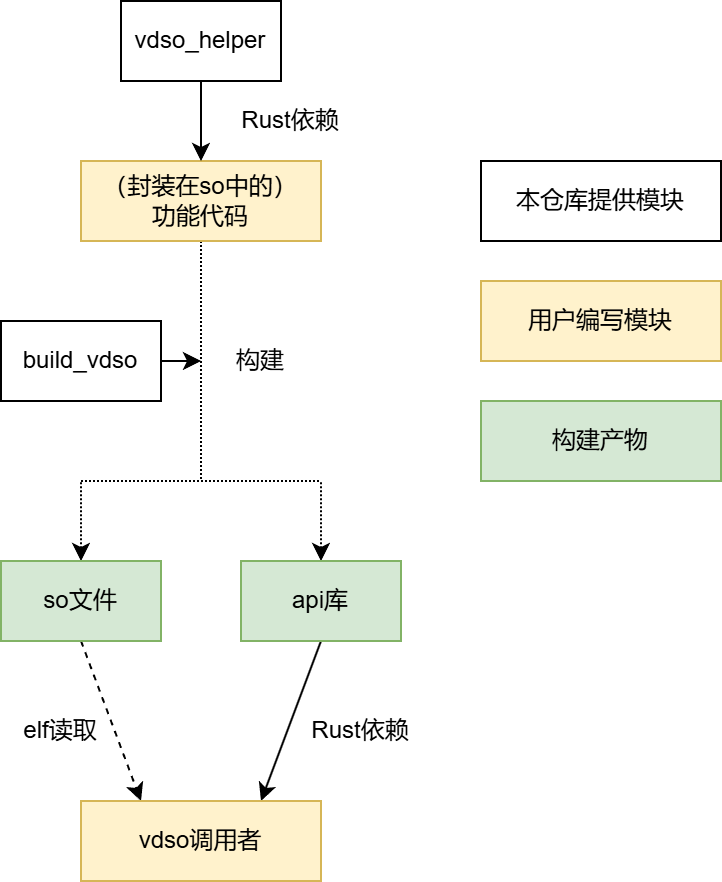
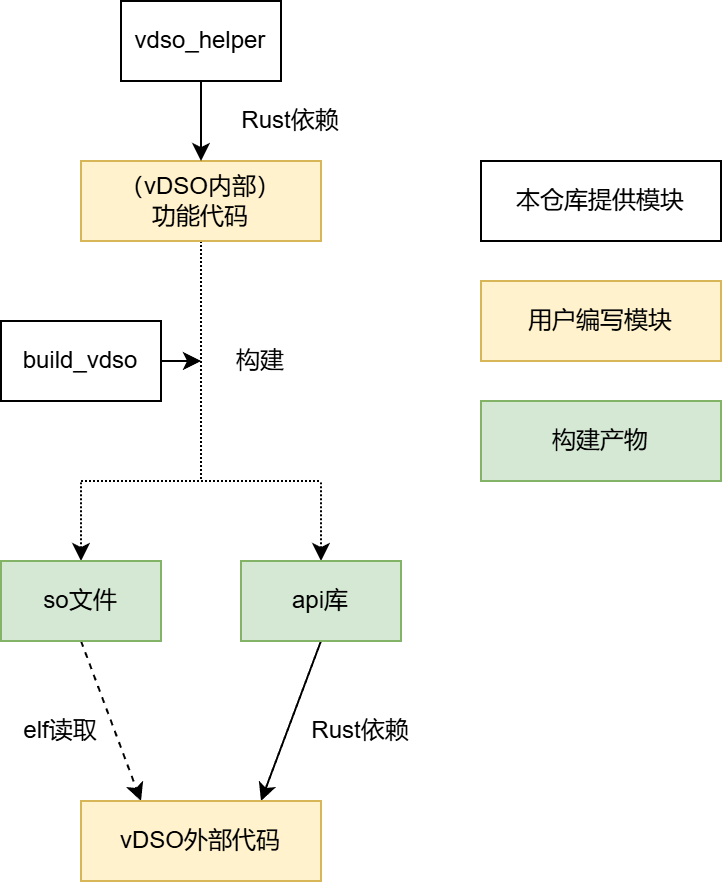
文档补全

Changed region(s): [[0.1524, 0.9184, 0.3961, 0.9796], [0.1524, 0.1837, 0.3961, 0.2449]]

diff --git a/vdso_helper/src/vvar_data.rs b/vdso_helper/src/vvar_data.rs
@@ -1,10 +1,28 @@
+//! 声明共享数据结构。
+//!
+//! 在vDSO库中，需要区分共享数据和私有数据。
+//!
+//! 共享数据存放在vVAR数据区中，由[`vvar_data!`](`crate::vvar_data!`)定义。
+//! vDSO库通过[`get_vvar_data!`](`crate::get_vvar_data!`)访问共享数据。
+//! 所有进程和内核访问同一份共享数据，在一个地址空间中对共享数据的修改会被其它地址空间看到。
+//!
+//! 私有数据则存放在vDSO库自身的数据段中，通过一般的静态变量声明方式定义，
+//! 仅供vDSO库内部使用。
+//! 不同地址空间使用vDSO库时，私有数据写时复制，互不影响。
+//!
+//! ## 包含
+//!
+//! - [`vvar_data!`](`crate::vvar_data!`)
+//! - [`get_vvar_data!`](`crate::get_vvar_data!`)
+
 /// 声明共享数据结构。
 ///
 /// 使用方式：
 ///
 /// - 类似于struct的定义，在大括号中声明每一项的名称和类型。
+///     - 每一项的类型都需要实现`Default`和`Sync` trait。
 /// - 需要在crate的根模块下使用该宏。
-/// - 在项目各处通过`get_vvar_data`宏获取共享数据结构的引用。
+/// - 在项目各处通过[`get_vvar_data!`](`crate::get_vvar_data!`)获取共享数据结构的引用。
 #[macro_export]
 macro_rules! vvar_data {
     ($($i:ident: $t:ty),* $(,)?) => {
@@ -23,14 +41,14 @@ macro_rules! vvar_data {
 ///
 /// 参数：
 ///
-/// - $1: 共享数据结构的字段名（在vvar_data宏中定义）。
-/// - $2: 映射代码和数据段过程中的页面大小（usize类型）（可不填写，则默认为4K）。
+/// - $1: 共享数据结构的字段名（在[`vvar_data!`](`crate::vvar_data!`)中定义）。
+/// - $2: 映射代码和数据段过程中的页面大小（`usize`类型）（可不填写，则默认为4K）。
 ///
-/// 返回值：&'static T类型，代表对相应结构的引用
+/// 返回值：`&'static T`类型，代表对相应结构的引用
 ///
 /// SAFETY：
 ///
-/// 需要在生成的so文件中检查，函数get_code_base的偏移量要小于一页。
+/// 需要在生成的so文件中检查，函数[`get_code_base`]的偏移量要小于一页。
 ///
 /// 否则，该宏获取到的引用地址会不正确。
 #[macro_export]

diff --git a/build_vdso/src/build_config.rs b/build_vdso/src/build_config.rs
@@ -1,14 +1,19 @@
+//! 提供[`BuildConfig`]结构体，用于配置vDSO库的构建参数。
+
+/// 用于传入[`super::build_vdso`]函数中，配置vDSO库的构建参数。
+///
+/// 使用时，建议调用[`BuildConfig::new`]函数创建实例，并在创建后手动修改需要修改的字段。
 pub struct BuildConfig {
     /// 目标架构，有效值为"x86_64"、"aarch64"、"riscv64"
     pub arch: String,
-    /// vdso源代码所在目录
+    /// vDSO源代码所在目录
     pub src_dir: String,
-    /// vdso包名称
+    /// vDSO包名称
     pub package_name: String,
     /// 编译输出目录，会输出链接脚本和最终的.so文件
     /// 若在build.rs中调用，则应传入环境变量OUT_DIR的值
     pub out_dir: String,
-    /// 生成的vdso库的soname，默认为"lib" + package_name
+    /// 生成的vDSO库的soname，默认为"lib" + package_name
     pub so_name: String,
     /// 编译模式，"debug"或"release"
     pub mode: String,
@@ -17,7 +22,7 @@ pub struct BuildConfig {
     /// 生成的api库的名称，默认为"lib" + package_name
     /// 该库会被拷贝到输出目录，并可被调用者依赖
     pub api_lib_name: String,
-    /// 编译vdso使用的工具链版本
+    /// 编译vDSO使用的工具链版本
     /// 默认为"nightly"，可指定具体版本号，如"nightly-2025-09-12"
     pub toolchain: String,
 }

diff --git a/build_vdso/src/lib.rs b/build_vdso/src/lib.rs
@@ -1,3 +1,12 @@
+//! 本模块用于构建vDSO库。
+//!
+//! 在vDSO外部代码的build.rs中调用[`build_vdso`]函数，传入[`BuildConfig`]配置结构体，即可完成vDSO库的构建。
+//!
+//! vDSO库的构建产物包括so文件和API库，vDSO外部代码在正确加载so文件与vVAR数据区后，将so文件的加载地址传入API库中，
+//! 即可通过API库调用vDSO中的函数。
+
+#![deny(missing_docs)]
+
 use std::{
     env, fs,
     io::{stderr, stdout, Write},
@@ -15,6 +24,10 @@ mod gen_wrapper;
 use gen_wrapper::gen_wrapper;
 
 /// 构建vdso的代码。在vdso外部代码的build.rs中调用该函数。
+///
+/// # 参数
+///
+/// - `config`: vdso构建配置结构体，详见[`BuildConfig`]。
 pub fn build_vdso(config: &BuildConfig) {
     // // 用于打印环境变量的测试代码。
     // // 如果build_vdso执行失败，可能是主编译单元设置了某些环境变量，并被继承到了vdso的编译中。

diff --git a/vdso_helper/src/mut_cfg.rs b/vdso_helper/src/mut_cfg.rs
@@ -1,8 +1,13 @@
-//! 用于生成可在编译期由环境变量指定的常量。
+//! 用于创建可在编译期由环境变量指定的常量。
 //!
 //! 使用该模块的原因是vDSO的接口不支持泛型，因此许多常量都需要在编译期确定。
 //!
 //! 通过使用编译期的环境变量改变常量的值，可以为vDSO模块带来一定的灵活性。
+//!
+//! ## 包含
+//!
+//! - [`mut_cfg!`](`crate::mut_cfg!`)
+//! - [`use_mut_cfg!`](`crate::use_mut_cfg!`)
 
 /// 生成可变配置常量的宏。
 ///
@@ -47,6 +52,9 @@ macro_rules! mut_cfg {
 
         println!("cargo:rerun-if-changed=src/*");
         println!("cargo:rerun-if-changed={}", out_path.display());
+        $(
+            println!("cargo:rerun-if-env-changed={}", stringify!($i));
+        )*
     };
 }
 

diff --git a/vdso_helper/src/lib.rs b/vdso_helper/src/lib.rs
@@ -1,4 +1,10 @@
+//! 提供vDSO库相关的辅助功能。
+//!
+//! - [`mod@vvar_data`]模块用于声明和使用vVAR共享数据。
+//! - [`mod@mut_cfg`]模块用于在编译期由环境变量指定的常量。
+
 #![no_std]
+#![deny(missing_docs)]
 
 pub mod mut_cfg;
 pub mod vvar_data;

diff --git a/README.md b/README.md
@@ -1,0 +1,62 @@
+# vDSO共享库构建工具
+
+## vDSO简介
+
+**vDSO**（Virtual Dynamic Shared Object，虚拟动态共享对象）是 Linux 内核提供的一种机制，用来高效地将某些内核服务暴露给用户空间，而无需进行用户态到内核态的系统调用（syscall）切换。
+
+其原理为：在内核空间中加载一个**二进制共享库文件（`vDSO`）**，以及这个共享库文件访问的**数据区（`vVAR`）**。之后，将`vDSO`和`vVAR`均映射到用户空间，使用户程序可直接访问`vDSO`中提供的接口，并间接访问`vVAR`的数据。通过该方式，即可实现代码和数据在用户态和内核态间、在不同用户程序间的共享。
+
+为何需要单独的`vVAR`数据区，而不是使用`vDSO`中的数据段？
+
+- 在Linux内核的实现中，`vDSO`被整体映射到一个只读区域。因此`vDSO`的数据段只能存储只读数据，而可变数据需要存储在`vVAR`中。
+- 在我们扩展`vDSO`功能的实现中，分别加载`vDSO`的代码段和数据段，并赋予相应的读写权限。但有两种可变数据需要区分：(1)共享的可变数据，在一个地址空间中的修改可以反映到其它地址空间中；(2)私有的可变数据，每个地址空间持有不同的拷贝，修改互不影响。因此我们使用`vVAR`存储共享的可变数据，而使用`vDSO`中的数据段存储私有的可变数据。
+
+关于vDSO的更详细介绍参考[RISC-V Syscall 系列 4：vDSO 实现原理分析](https://tinylab.org/riscv-syscall-part4-vdso-implementation/)。
+
+## 本项目内容
+
+前文已提及，vDSO技术可用于用户和内核之间、用户进程之间的代码与数据共享。其可应用于一些需要如上的代码数据共享的领域，例如共享任务调度、异步系统调用和进程间通信。本项目即使用vDSO机制实现上述的功能。
+
+本仓库中的两个crate，`vdso_helper`和`build_vdso`，用于支持使用Rust语言方便地开发和构建`vDSO`共享库：
+
+- `vdso_helper`：封装了`vDSO`代码所需的操作，包括(1)访问`vVAR`数据和(2)定义可由环境变量修改的常量。
+- `build_vdso`：将`vDSO`代码的构建流程整合到`vDSO`外部代码的构建流程中，并构建可被`vDSO`外部代码依赖的API库。
+
+通过它们实现的，`vDSO`开发和构建流程如图所示：
+
+![vdso项目结构](./doc/assets/vdso模板项目结构3.0.png)
+
+基于本项目开展了如下的工作：
+
+- [`vsched`](https://github.com/rosy233333/vipc)：基于vDSO机制的调度器，后续将开发为用户态、内核态的统一调度器。
+- [`vqueue`](https://github.com/rosy233333/vqueue)：基于vDSO机制的IPC队列，由[`vipc`](https://github.com/rosy233333/vipc)使用。
+
+目前本项目的工作在[AsyncOS](https://github.com/rosy233333/async-os/tree/vdso-test)上运行，未适配Linux。
+
+## vDSO共享库开发和使用流程
+
+### 开发`vDSO`库
+
+1. 创建`no_std`、`lib`类型的Rust crate，并创建一个模块`api`和源文件`api.rs`。
+2. 依赖`vdso_helper`，使用其中的`vvar_data!`和`get_vvar_data!`定义和访问共享数据。
+3. 通过声明静态变量的方式声明私有数据。
+4. （可选）通过`vdso_helper`中的`mut_cfg!`和`use_mut_cfg!`定义在编译期由环境变量指定的常量。
+5. 将暴露出的接口函数放置在`api.rs`中，且使用以下的函数定义：
+
+```Rust
+#[unsafe(no_mangle)]
+pub extern "C" fn 函数名(参数) -> 返回值 {
+    函数体
+}
+```
+
+注意：不是所有对外提供的函数都需要放入`api.rs`（例如对外提供某些类型关联的方法）。但是，如果该对外提供函数（直接或间接地）访问了共享数据，则必须放入`api.rs`中。
+
+### 构建和使用`vDSO`库
+
+1. 在`vDSO`外部代码的`build.rs`中使用`build_vdso`，配置`BuildConfig`构建参数，并传入`build_vdso`函数以构建`vDSO`库。
+2. 执行一次构建后，可在输出目录中找到so文件与API库。
+3. 加载`vDSO`和`vVAR`：在外部代码所在的地址空间中映射一块区域，并如此设置：首先保留一块`VvarData`大小的区域，设置为可读可写。在其之后的下一页加载第2步中的so文件，并为各个段设置合适的可读/可写/可执行权限。`vVAR`区域与`vDSO`区域的基址都需要对齐到`config::PAGES_SIZE_4K`。
+4. 依赖API库，并传入`vDSO`的加载基址。
+5. 通过API库，调用`vDSO`的API。
+6. 创建用户进程时，将`vDSO`和`vVAR`映射到其地址空间，并向用户进程传递`vDSO`的基址。用户进程即可通过第4、5步的方式使用vDSO。
